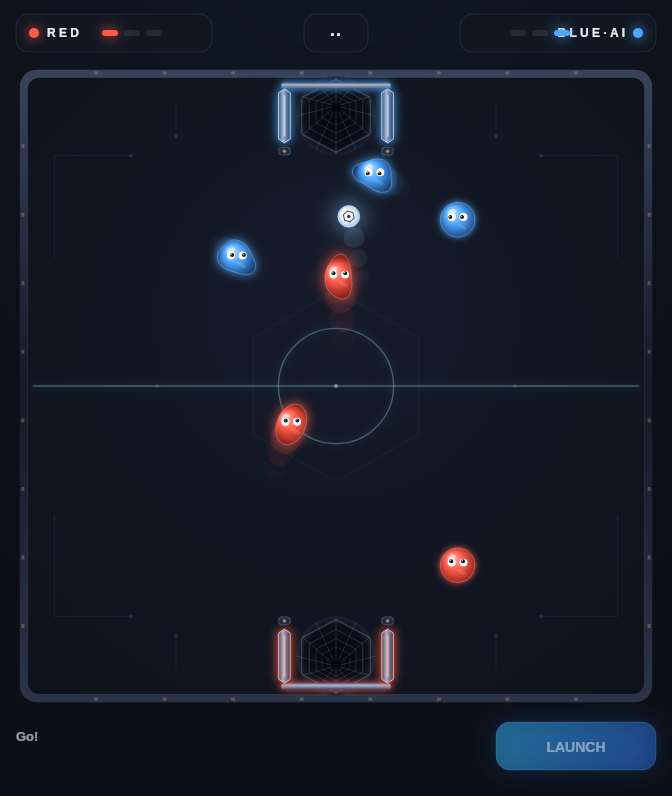
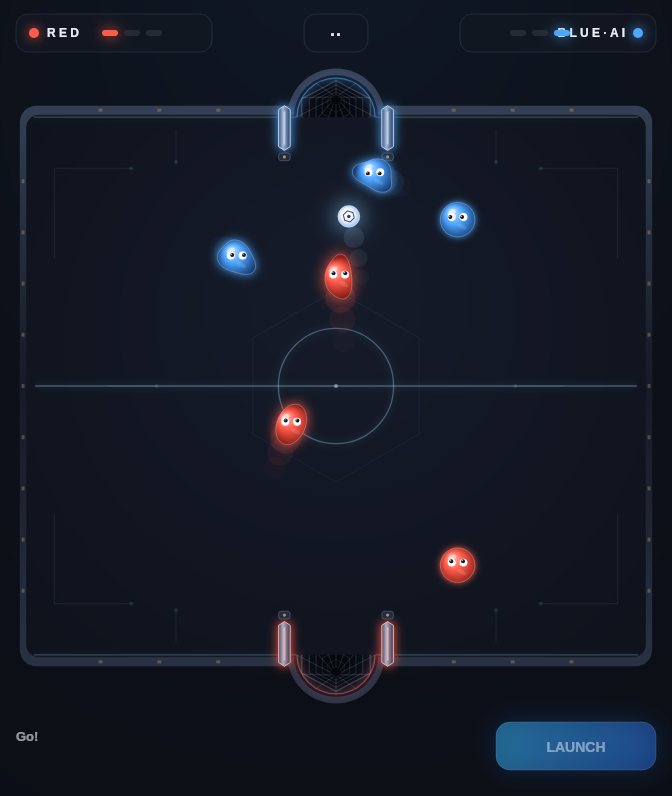
Replace Silicon Soccer V6 porte build

diff --git a/siliconsoccer/V6-porte/index.html b/siliconsoccer/V6-porte/index.html
@@ -500,10 +500,10 @@ function lerpEnts(){
 const TRACES=(()=>{
   const t=[];
   const seg=(pts)=>t.push(pts);
-  seg([[60,300],[60,140],[180,140]]); seg([[940,300],[940,140],[820,140]]);
-  seg([[60,700],[60,860],[180,860]]); seg([[940,700],[940,860],[820,860]]);
-  seg([[250,60],[250,110]]); seg([[750,60],[750,110]]);
-  seg([[250,940],[250,890]]); seg([[750,940],[750,890]]);
+  seg([[60,300],[60,160],[180,160]]); seg([[940,300],[940,160],[820,160]]);
+  seg([[60,700],[60,840],[180,840]]); seg([[940,700],[940,840],[820,840]]);
+  seg([[250,100],[250,150]]); seg([[750,100],[750,150]]);
+  seg([[250,900],[250,850]]); seg([[750,900],[750,850]]);
   seg([[140,500],[220,500]]); seg([[860,500],[780,500]]);
   return t;
 })();
@@ -511,29 +511,40 @@ const TRACES=(()=>{
 function roundRectPath(c,x,y,w,h,r){c.beginPath();c.moveTo(x+r,y);c.arcTo(x+w,y,x+w,y+h,r);
   c.arcTo(x+w,y+h,x,y+h,r);c.arcTo(x,y+h,x,y,r);c.arcTo(x,y,x+w,y,r);c.closePath();}
 
+function fieldRect(x1,y1,x2,y2){
+  const [ax,ay]=toScreen(x1,y1), [bx,by]=toScreen(x2,y2);
+  return [Math.min(ax,bx), Math.min(ay,by), Math.abs(bx-ax), Math.abs(by-ay)];
+}
+
 function drawField(now){
-  const k=SIZE/1000, pad=6*k, R=26*k;
-  // bezel metallico
+  const k=SIZE/1000;
+  // corpo del chip: rettangolo fino ai muri di gioco + bombature delle tasche FUORI dal perimetro
   const bez=ctx.createLinearGradient(0,0,0,SIZE);
   bez.addColorStop(0,'#39435a'); bez.addColorStop(.5,'#151a26'); bez.addColorStop(1,'#2c3448');
-  roundRectPath(ctx,pad,pad,SIZE-pad*2,SIZE-pad*2,R);
-  ctx.fillStyle=bez; ctx.fill();
+  let [rx,ry,rw,rh]=fieldRect(6,62,994,938);
+  ctx.fillStyle=bez;
+  roundRectPath(ctx,rx,ry,rw,rh,26*k); ctx.fill();
+  for(const h of CFG.HOLES){ const [hx,hy]=toScreen(h.x,h.y);
+    ctx.beginPath(); ctx.arc(hx,hy,76*k,0,7); ctx.fill(); }
   // substrato
-  const inn=12*k;
   const sub=ctx.createRadialGradient(SIZE/2,SIZE*0.35,SIZE*0.1,SIZE/2,SIZE/2,SIZE*0.75);
   sub.addColorStop(0,'#141a28'); sub.addColorStop(1,'#0d1119');
-  roundRectPath(ctx,pad+inn,pad+inn,SIZE-(pad+inn)*2,SIZE-(pad+inn)*2,R*0.7);
-  ctx.fillStyle=sub; ctx.fill();
-  ctx.strokeStyle='rgba(111,220,255,.10)'; ctx.lineWidth=1; ctx.stroke();
-  // pin dorati sul bezel
+  [rx,ry,rw,rh]=fieldRect(16,76,984,924);
+  ctx.fillStyle=sub;
+  roundRectPath(ctx,rx,ry,rw,rh,20*k); ctx.fill();
+  for(const h of CFG.HOLES){ const [hx,hy]=toScreen(h.x,h.y);
+    ctx.beginPath(); ctx.arc(hx,hy,66*k,0,7); ctx.fill(); }
+  // pin dorati sul bezel (saltando le bocche)
   ctx.fillStyle='rgba(201,168,106,.35)';
-  const NP=9;
-  for(let i=1;i<NP;i++){
-    const t=i/NP, a=pad+inn, b=SIZE-pad-inn, v=a+(b-a)*t;
-    ctx.fillRect(v-3*k, pad+2.5*k, 6*k, 4.5*k);
-    ctx.fillRect(v-3*k, SIZE-pad-7*k, 6*k, 4.5*k);
-    ctx.fillRect(pad+2.5*k, v-3*k, 4.5*k, 6*k);
-    ctx.fillRect(SIZE-pad-7*k, v-3*k, 4.5*k, 6*k);
+  for(let i=1;i<10;i++){
+    const fx=40+920*i/10;
+    if(Math.abs(fx-500)>=100){
+      let [tx,ty]=toScreen(fx,69); ctx.fillRect(tx-3*k,ty-2.2*k,6*k,4.5*k);
+      let [bx2,by2]=toScreen(fx,931); ctx.fillRect(bx2-3*k,by2-2.2*k,6*k,4.5*k);
+    }
+    const fy=100+800*i/10;
+    let [lx2,ly2]=toScreen(11,fy); ctx.fillRect(lx2-2.2*k,ly2-3*k,4.5*k,6*k);
+    let [rx2,ry2]=toScreen(989,fy); ctx.fillRect(rx2-2.2*k,ry2-3*k,4.5*k,6*k);
   }
   // tracce circuito decorative + via dots
   ctx.strokeStyle='rgba(111,220,255,.07)'; ctx.lineWidth=2*k; ctx.lineJoin='round';
@@ -556,23 +567,37 @@ function drawField(now){
   ctx.save();
   ctx.shadowColor='rgba(111,220,255,.5)'; ctx.shadowBlur=8*k;
   ctx.strokeStyle='rgba(190,235,255,.30)'; ctx.lineWidth=2*k;
-  ctx.beginPath(); ctx.moveTo(pad+inn+8*k,SIZE/2); ctx.lineTo(SIZE-pad-inn-8*k,SIZE/2); ctx.stroke();
+  let [c1x,c1y]=toScreen(30,500), [c2x]=toScreen(970,500);
+  ctx.beginPath(); ctx.moveTo(c1x,c1y); ctx.lineTo(c2x,c1y); ctx.stroke();
   ctx.beginPath(); ctx.arc(SIZE/2,SIZE/2,90*k,0,7); ctx.stroke();
   ctx.restore();
   ctx.fillStyle='rgba(190,235,255,.5)';
   ctx.beginPath(); ctx.arc(SIZE/2,SIZE/2,3*k,0,7); ctx.fill();
 
-  // porte: ENERGY GATE — piloni esagonali luminosi + rete a imbuto, senza traversa
+  // porte incassate: linea-muro con varco + tasca semicircolare oltre + piloni
   for(const h of CFG.HOLES){
     const [hx,hy]=toScreen(h.x,h.y); const r=CFG.HOLE_R*k;
-    const wall = hy<SIZE/2 ? -1 : 1;             // lato muro
-    const g=ctx.createRadialGradient(hx,hy,r*0.05,hx,hy,r);
-    g.addColorStop(0,'#03050a'); g.addColorStop(.75,'#0a0e18'); g.addColorStop(1,'#1a2233');
-    ctx.fillStyle=g; ctx.beginPath(); ctx.arc(hx,hy,r,0,7); ctx.fill();
-    // rete esagonale a imbuto (converge verso il fondo, lato muro)
-    const fx=hx, fy=hy+wall*r*0.22;
+    const out = hy<SIZE/2 ? -1 : 1;              // direzione fuori campo (schermo)
+    const defC = h.scorer===0 ? COL.blue : COL.red;
+    const defHi = h.scorer===0 ? COL.blueHi : COL.redHi;
+    // linea del muro di gioco (con varco alla bocca)
     ctx.save();
-    ctx.beginPath(); ctx.arc(hx,hy,r*0.98,0,7); ctx.clip();
+    ctx.shadowColor='rgba(111,220,255,.4)'; ctx.shadowBlur=6*k;
+    ctx.strokeStyle='rgba(190,235,255,.22)'; ctx.lineWidth=2*k;
+    let [xa]=toScreen(28,h.y), [xb]=toScreen(500-62,h.y), [xc]=toScreen(500+62,h.y), [xd]=toScreen(972,h.y);
+    if(xa>xd){[xa,xd]=[xd,xa];[xb,xc]=[xc,xb];}
+    ctx.beginPath(); ctx.moveTo(xa,hy); ctx.lineTo(xb,hy); ctx.stroke();
+    ctx.beginPath(); ctx.moveTo(xc,hy); ctx.lineTo(xd,hy); ctx.stroke();
+    ctx.restore();
+    // tasca semicircolare (pozzo oltre il muro)
+    const a0 = out<0 ? Math.PI : 0, a1 = out<0 ? Math.PI*2 : Math.PI;
+    ctx.save();
+    ctx.beginPath(); ctx.arc(hx,hy,r,a0,a1); ctx.closePath(); ctx.clip();
+    const g=ctx.createRadialGradient(hx,hy+out*r*0.3,r*0.05,hx,hy,r);
+    g.addColorStop(0,'#03050a'); g.addColorStop(.75,'#0a0e18'); g.addColorStop(1,'#1a2233');
+    ctx.fillStyle=g; ctx.fillRect(hx-r,hy-r,r*2,r*2);
+    // rete esagonale a imbuto (converge verso il fondo della tasca)
+    const fx=hx, fy=hy+out*r*0.45;
     const rings=[1,.78,.58,.4,.24];
     for(let i=0;i<rings.length;i++){
       const t=1-rings[i], ox=hx+(fx-hx)*t, oy=hy+(fy-hy)*t, rr=r*rings[i];
@@ -590,38 +615,33 @@ function drawField(now){
       ctx.lineTo(fx+Math.cos(th)*r*0.12, fy+Math.sin(th)*r*0.12);
       ctx.stroke();}
     ctx.restore();
-    // barra posteriore solida (lato muro)
-    const defC = h.scorer===0 ? COL.blue : COL.red;
-    const defHi = h.scorer===0 ? COL.blueHi : COL.redHi;
-    const bry=hy+wall*r*0.76;
+    // bordo della tasca
     ctx.save();
-    ctx.shadowColor=defC; ctx.shadowBlur=8*k;
-    const brg=ctx.createLinearGradient(0,bry-6*k,0,bry+6*k);
-    brg.addColorStop(0,'#3c475f'); brg.addColorStop(.38,'#aab7d1'); brg.addColorStop(.55,'#8794b0'); brg.addColorStop(1,'#2b3550');
-    ctx.strokeStyle=brg; ctx.lineWidth=10*k; ctx.lineCap='round';
-    ctx.beginPath(); ctx.moveTo(hx-r*1.30,bry); ctx.lineTo(hx+r*1.30,bry); ctx.stroke();
+    ctx.shadowColor=defC; ctx.shadowBlur=10*k;
+    ctx.strokeStyle=defC; ctx.globalAlpha=.5; ctx.lineWidth=2*k;
+    ctx.beginPath(); ctx.arc(hx,hy,r-1*k,a0,a1); ctx.stroke();
     ctx.restore();
-    // piloni esagonali con nucleo luminoso (colore del difensore)
+    // piloni esagonali sulle spalle della bocca (allineati alla fisica)
     const glowPulse=.65+.25*Math.sin(now/600+(h.scorer?0:2));
     for(const s of [-1,1]){
-      const x=hx+s*r*1.30, top=hy-r*0.68, bot=hy+r*0.68, w=9*k;
+      const x=hx+s*r*1.30, top=hy+out*18*k, bot=hy-out*52*k, w=9*k;
+      const yA=Math.min(top,bot), yB=Math.max(top,bot);
       ctx.save();
       ctx.shadowColor=defC; ctx.shadowBlur=12*k;
       const pg=ctx.createLinearGradient(x-w,0,x+w,0);
       pg.addColorStop(0,'#3c475f'); pg.addColorStop(.38,'#aab7d1'); pg.addColorStop(.55,'#8794b0'); pg.addColorStop(1,'#2b3550');
       ctx.fillStyle=pg;
       ctx.beginPath();
-      ctx.moveTo(x-w,top+6*k); ctx.lineTo(x-w,bot-6*k); ctx.lineTo(x,bot);
-      ctx.lineTo(x+w,bot-6*k); ctx.lineTo(x+w,top+6*k); ctx.lineTo(x,top);
+      ctx.moveTo(x-w,yA+6*k); ctx.lineTo(x-w,yB-6*k); ctx.lineTo(x,yB);
+      ctx.lineTo(x+w,yB-6*k); ctx.lineTo(x+w,yA+6*k); ctx.lineTo(x,yA);
       ctx.closePath(); ctx.fill();
       ctx.strokeStyle=defHi; ctx.lineWidth=1.5*k; ctx.stroke();
       ctx.restore();
-      // nucleo di luce
       ctx.fillStyle=defHi; ctx.globalAlpha=glowPulse;
-      ctx.fillRect(x-1.5*k, top+10*k, 3*k, bot-top-20*k);
+      ctx.fillRect(x-1.5*k, yA+9*k, 3*k, yB-yA-18*k);
       ctx.globalAlpha=1;
       // pad di ancoraggio lato campo
-      const py=hy-wall*(r*0.68+13*k);
+      const py=hy-out*(62*k);
       ctx.fillStyle='#232c3e';
       roundRectPath(ctx,x-9*k,py-6*k,18*k,12*k,4*k); ctx.fill();
       ctx.strokeStyle='rgba(122,148,196,.35)'; ctx.lineWidth=1; ctx.stroke();

diff --git a/siliconsoccer/V6-porte/physics.js b/siliconsoccer/V6-porte/physics.js
@@ -7,9 +7,11 @@
 
 const W = 1000, H = 1000;
 const HOLE_R = 62;
+const WALL_Y = 80;        // muri di gioco sup/inf: le porte sono incassate oltre
+const MOUTH_HALF = 62;    // semiapertura della bocca
 const HOLES = [
-  { x: W / 2, y: 78,      scorer: 0 }, // buca in alto: palla dentro = punto ROSSO
-  { x: W / 2, y: H - 78,  scorer: 1 }, // buca in basso: punto BLU
+  { x: W / 2, y: WALL_Y,     scorer: 0 }, // porta in alto: palla dentro = punto ROSSO
+  { x: W / 2, y: H - WALL_Y, scorer: 1 }, // porta in basso: punto BLU
 ];
 const GLOB_R = 27, BALL_R = 17;
 const GLOB_M = 1.0, BALL_M = 0.5;
@@ -26,11 +28,10 @@ const POWER = 3.4;
 const GOAL_POSTS = (() => {
   const caps = [];
   for (const h of HOLES) {
-    const wall = h.y < H / 2 ? -1 : 1;
-    const px = HOLE_R * 1.30, hh = HOLE_R * 0.68;
+    const out = h.y < H / 2 ? -1 : 1;                    // direzione fuori campo
+    const px = HOLE_R * 1.30;
     for (const s of [-1, 1])
-      caps.push({ ax: h.x + s * px, ay: h.y - hh, bx: h.x + s * px, by: h.y + hh, r: 9, scorer: h.scorer, kind: 'post' });
-    caps.push({ ax: h.x - px, ay: h.y + wall * HOLE_R * 0.76, bx: h.x + px, by: h.y + wall * HOLE_R * 0.76, r: 5, scorer: h.scorer, kind: 'bar' });
+      caps.push({ ax: h.x + s * px, ay: h.y + out * 18, bx: h.x + s * px, by: h.y - out * 52, r: 9, scorer: h.scorer, kind: 'post' });
   }
   return caps;
 })();
@@ -60,8 +61,25 @@ function stepOnce(ents, dt, damp) {
     // pareti
     if (e.x < e.r) { e.x = e.r; e.vx = Math.abs(e.vx) * REST_WALL; }
     if (e.x > W - e.r) { e.x = W - e.r; e.vx = -Math.abs(e.vx) * REST_WALL; }
-    if (e.y < e.r) { e.y = e.r; e.vy = Math.abs(e.vy) * REST_WALL; }
-    if (e.y > H - e.r) { e.y = H - e.r; e.vy = -Math.abs(e.vy) * REST_WALL; }
+    const inMouth = Math.abs(e.x - W / 2) < MOUTH_HALF;
+    if (!inMouth) {
+      if (e.y < WALL_Y + e.r) { e.y = WALL_Y + e.r; e.vy = Math.abs(e.vy) * REST_WALL; }
+      if (e.y > H - WALL_Y - e.r) { e.y = H - WALL_Y - e.r; e.vy = -Math.abs(e.vy) * REST_WALL; }
+    } else {
+      // dentro la tasca: parete curva del semicerchio
+      for (const h of HOLES) {
+        const out = h.y < H / 2 ? -1 : 1;
+        const beyond = out < 0 ? e.y < h.y : e.y > h.y;
+        if (!beyond) continue;
+        const dx = e.x - h.x, dy = e.y - h.y, d = Math.hypot(dx, dy);
+        if (d > HOLE_R - e.r) {
+          const nx = dx / (d || 1), ny = dy / (d || 1);
+          e.x = h.x + nx * (HOLE_R - e.r); e.y = h.y + ny * (HOLE_R - e.r);
+          const vn = e.vx * nx + e.vy * ny;
+          if (vn > 0) { e.vx -= (1 + REST_WALL) * vn * nx; e.vy -= (1 + REST_WALL) * vn * ny; }
+        }
+      }
+    }
     // telaio porte: rimbalzo su piloni e barra posteriore
     for (const c of GOAL_POSTS) {
       const abx = c.bx - c.ax, aby = c.by - c.ay;
@@ -79,12 +97,14 @@ function stepOnce(ents, dt, damp) {
     for (const h of HOLES) {
       const dx = h.x - e.x, dy = h.y - e.y, d = Math.hypot(dx, dy);
       if (d < HOLE_R + e.r * 0.4) {
-        const pull = 2600 * (1 - d / (HOLE_R + e.r));
+        const pull = 3120 * (1 - d / (HOLE_R + e.r));  // +20% di risucchio
         e.vx += (dx / (d || 1)) * pull * dt;
         e.vy += (dy / (d || 1)) * pull * dt;
         const speed = Math.hypot(e.vx, e.vy);
-        if (d < HOLE_R * 0.55 && speed < 1100) {
-          e.dead = true; e.x = h.x; e.y = h.y; e.vx = 0; e.vy = 0;
+        const out2 = h.y < H / 2 ? -1 : 1;
+        const beyond2 = out2 < 0 ? e.y < h.y : e.y > h.y;
+        if ((beyond2 && speed < 1400) || (d < HOLE_R * 0.5 && speed < 1100)) {
+          e.dead = true; e.x = h.x; e.y = h.y + out2 * HOLE_R * 0.3; e.vx = 0; e.vy = 0;
           fell.push({ id: e.id, team: e.team, hole: { x: h.x, y: h.y } });
           if (e.id === 'ball' && goal === null) goal = h.scorer;
           break;
@@ -155,7 +175,7 @@ function rollout(entsInput, movesByTeam, maxS = 6) {
 
 return {
   W, H, HOLES, HOLE_R, GLOB_R, BALL_R, DT, DAMP, REST_WALL, REST_BODY,
-  STOP_V, MAX_SIM_S, MAX_ARROW, POWER, GOAL_POSTS,
+  STOP_V, MAX_SIM_S, MAX_ARROW, POWER, GOAL_POSTS, WALL_Y, MOUTH_HALF,
   startEnts, stepOnce, checkWipe, allStopped, rollout,
 };
 });

diff --git a/siliconsoccer/V6-porte/sw.js b/siliconsoccer/V6-porte/sw.js
@@ -1,5 +1,5 @@
 // Silicon Soccer — service worker: gioco offline (cache-first)
-const CACHE = 'silicon-soccer-v12';
+const CACHE = 'silicon-soccer-v13';
 const ASSETS = ['./','./index.html','./physics.js','./ai.js','./engine.js',
   './manifest.webmanifest','./icon-192.png','./icon-512.png','./privacy.html'];
 